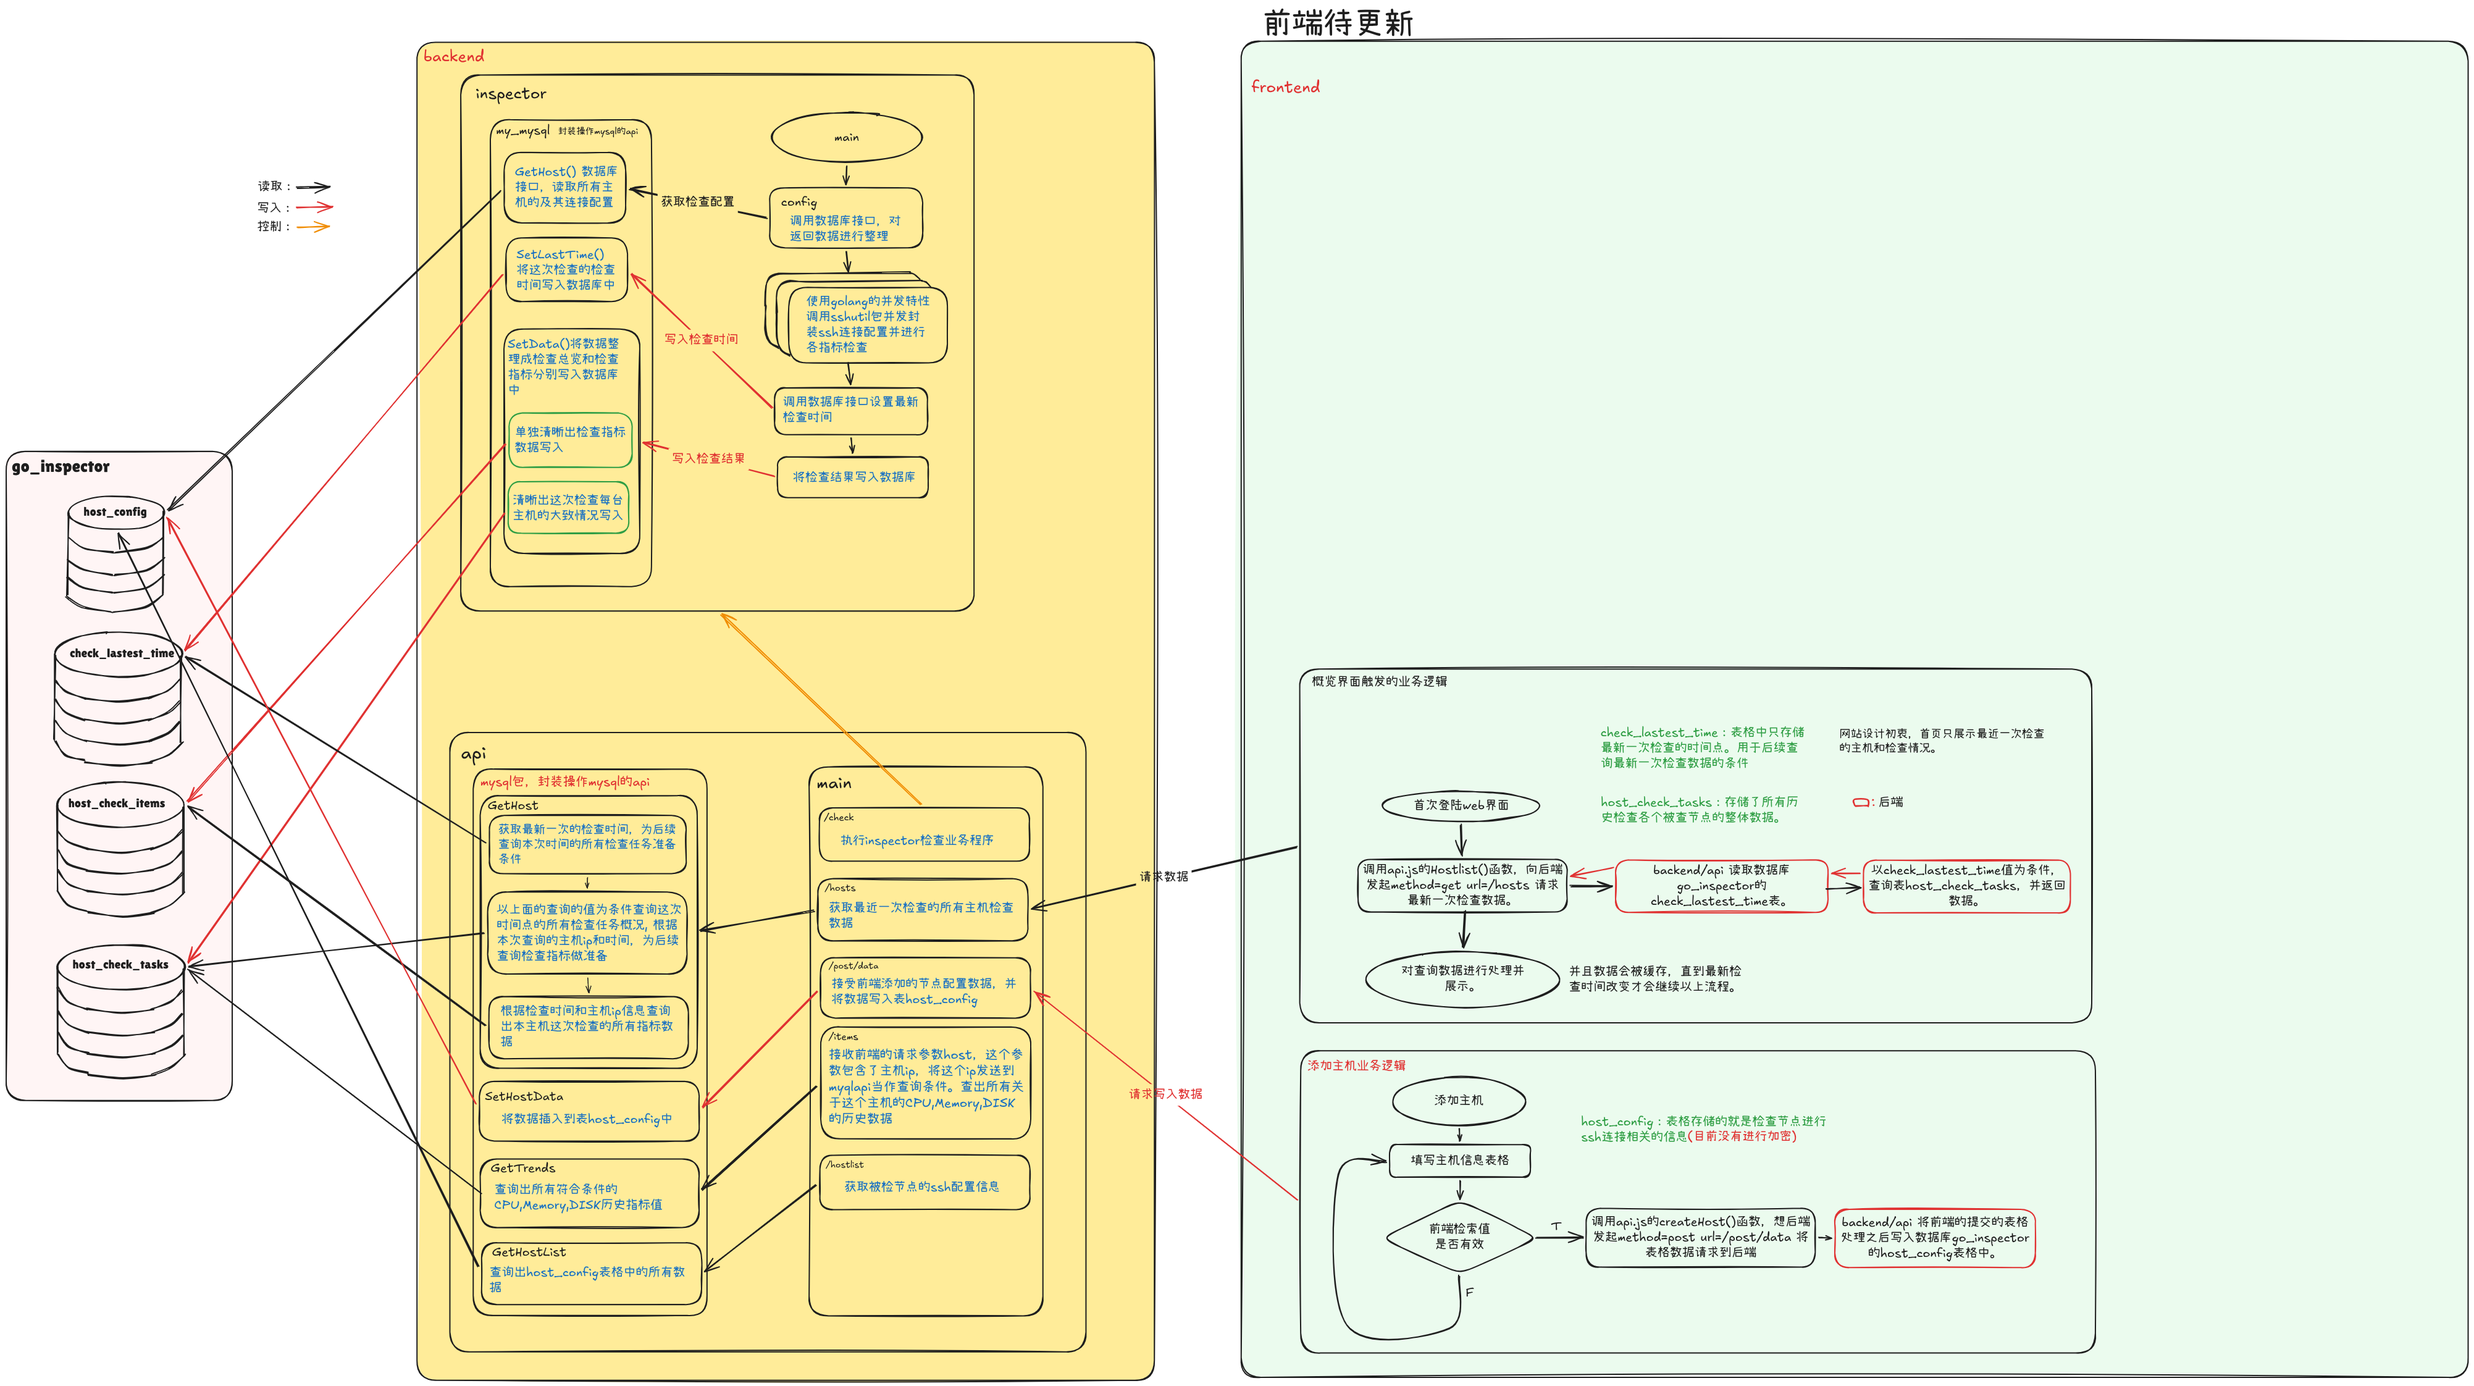
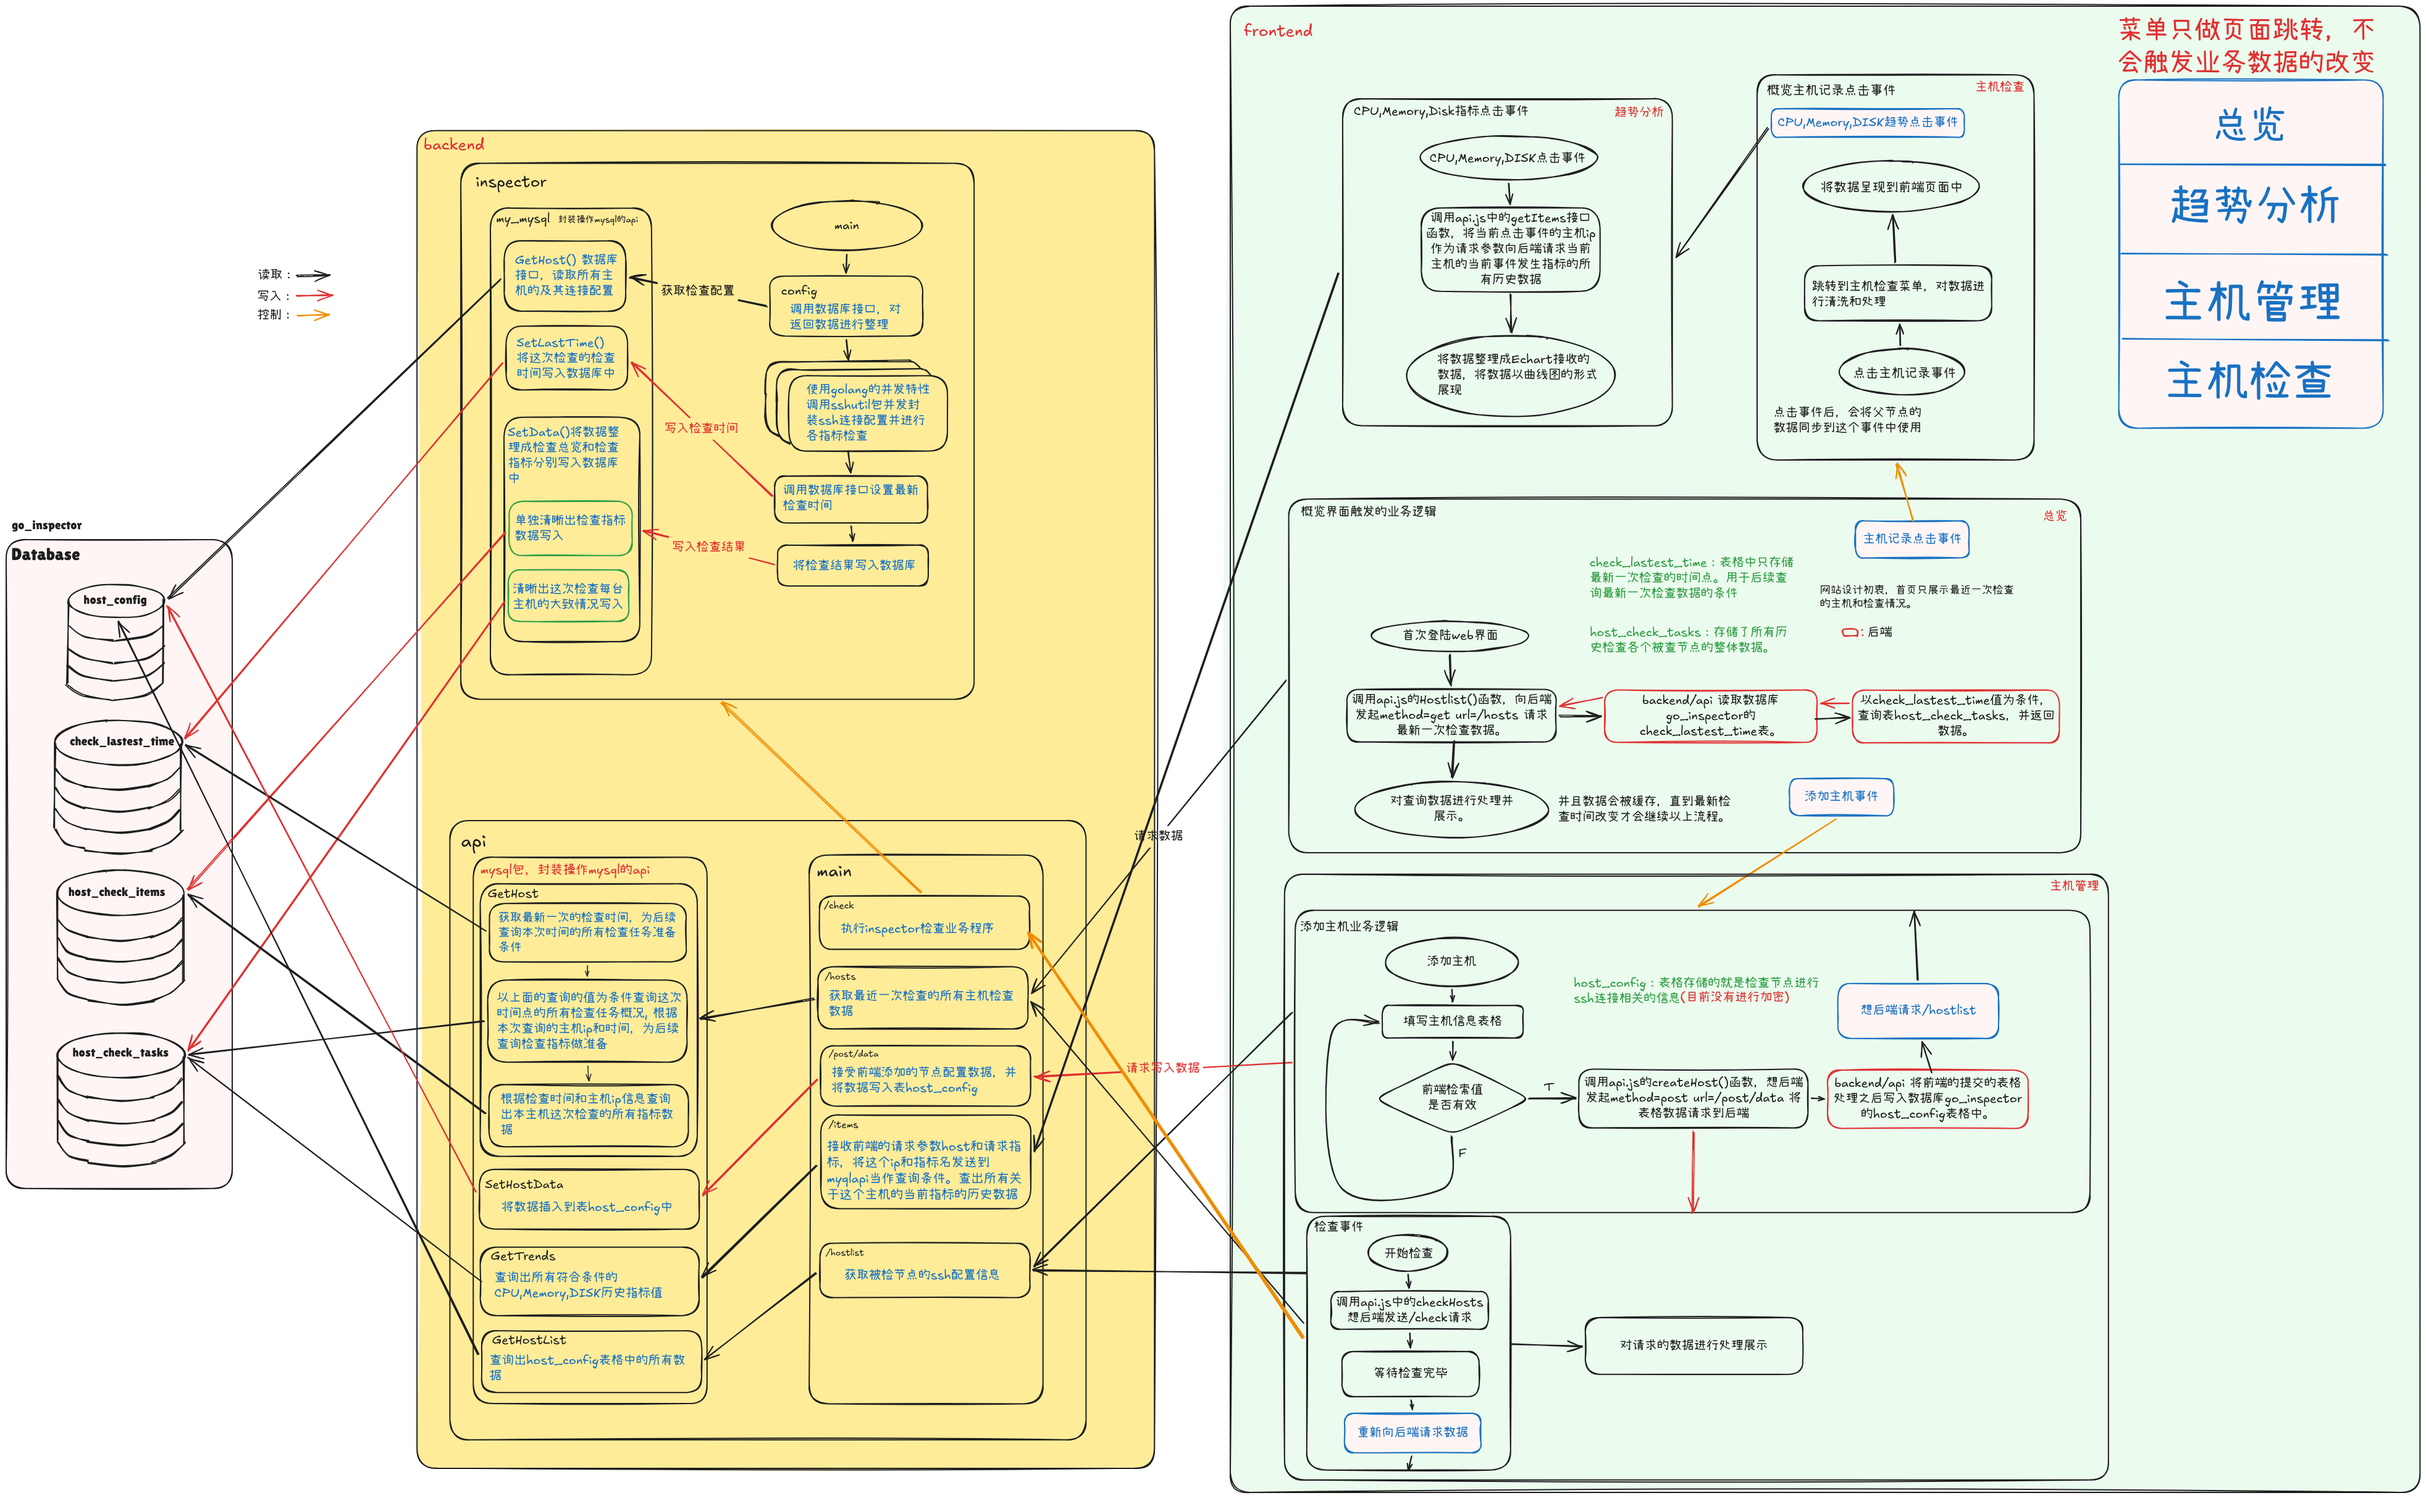
常规升级0911

diff --git a/frontend/src/views/HostsView.vue b/frontend/src/views/HostsView.vue
@@ -71,8 +71,8 @@ const filteredHosts = computed(() => props.hosts.filter(h => `${h.Host || ''}`.t
       <el-icon>
         <InfoFilled/>
       </el-icon>
-      <div><b>数据尚未连接</b>
-        <p>当前列表来自 mock 数据。接入后端时，`GET /api/hosts` 的返回值会自动填充到这里。</p></div>
+      <div><b>数据尚已连接</b>
+        <p>当前列表来数据数据。首次部署数据库主机配置为空，请手动配置</p></div>
     </div>
   </section>
 </template>

diff --git a/frontend/src/App.vue b/frontend/src/App.vue
@@ -191,9 +191,9 @@ onMounted(() => {
       <div class="sidebar-bottom">
         <div class="connection-state">
           <span class="status-dot"></span>
-          <span><b>数据层未连接</b><small>当前为静态演示模式</small></span>
+          <span><b>数据层已连接</b></span>
         </div>
-        <div class="sidebar-meta">v0.1.0 · Linux inspection</div>
+        <div class="sidebar-meta">v1.1 · Linux inspectra</div>
       </div>
     </aside>
     <main class="main-content">

diff --git a/frontend/src/views/DashboardView.vue b/frontend/src/views/DashboardView.vue
@@ -7,8 +7,7 @@ import {
   Warning,
   Clock,
   Plus,
-  TrendCharts,
-  Monitor,
+  TrendCharts, Monitor,
 } from "@element-plus/icons-vue";
 import SectionHeading from "../components/SectionHeading.vue";
 import StatCard from "../components/StatCard.vue";

diff --git a/frontend/src/styles.css b/frontend/src/styles.css
@@ -461,7 +461,7 @@ button {
 .status-dot {
   width: 8px;
   height: 8px;
-  background: #d0a056;
+  background: green;
   border-radius: 50%;
   display: inline-block;
   flex: none;

diff --git a/README.md b/README.md
@@ -97,6 +97,8 @@ docker compose up -d
 
 
 
+### 3.1.1. 首次登陆
+
 ![overviewdata](./docs/image-overviewdata.png)
 
 > **界面展示：**12是静态数据暂时还没有修改，白天实习上班，晚上的时间还是分给更重要的事情。 
@@ -104,6 +106,20 @@ docker compose up -d
 ![overview](./docs/image-overview.png)
 
 > **注意：**首次登陆数据库中没有数据，会显示上面的界面，需要手动添加主机
+
+### 3.1.2. 具体主机节点状态展示
+
+![image-20260911200045278](/home/xwang/.config/Typora/typora-user-images/image-20260911200045278.png)
+
+> 上面四个模块中，PASS，WARN，FAIL中的记录都是可以点击跳转的。**而`UNCON`中的记录，不能点击跳转**。
+>
+> **设计思路：** 点击这些主机记录时，会跳转到主机的详细信息界面，这个界面展示了所有检查指标的状态。
+>
+> `UNCON`代表的含义是断联主机，断联主机没有办法进行检查，自然没有检查指标所以`UNCON`主机记录是没有点击跳转事件的。
+>
+> `WARN`代表服务告警。`FAIL`代表服务异常，比如没有服务未启动等。`PASS`代表主机的所有服务都是健康。
+
+**点击主机记录事件**
 
 
 
